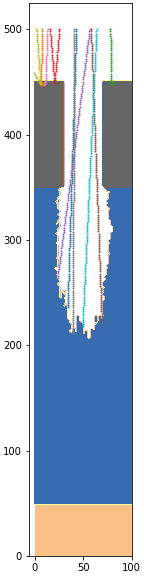
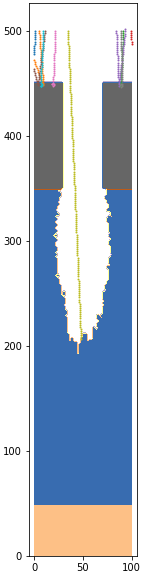
Change init_vels() to init_uvec()
1. replace initi_vels() to init_uvec(), separate speed/energy from direction/uvec
2. replace self.vels with self.enrg, vels = f(enrg)*uvec

diff --git a/FeatMod2d_ptcl.py b/FeatMod2d_ptcl.py
@@ -15,7 +15,7 @@ class PARTICLE(object):
         self.mass = mass # unit in AMU
         self.charge = charge # unit in Unit Charge of Electron
         self.posn = np.zeros(2)
-        self.vels = np.zeros(2)
+        self.enrg = 0.025 # unit in eV, initial as room temperature
         self.uvec = np.zeros(2)
         self.accl = np.zeros(2)
         self.dead = dead # indicator for ptcl alive or dead
@@ -35,7 +35,7 @@ class PARTICLE(object):
         init_posx = np.random.uniform(0.0, 1.0)*width
         self.posn = np.array([init_posx, height])
     
-    def init_vels(self, idstrb='Uniform'):
+    def init_uvec(self, idstrb='Uniform'):
         """
         Initialize the velocity in (x, -z) (half-down quadrant)
         """
@@ -88,7 +88,7 @@ if __name__ == '__main__':
     Arp = PARTICLE('Ar+', 'Ion',  32.0,     1)
     print(Arp)
     Arp.init_posn(width, height)
-    Arp.init_vels()
+    Arp.init_uvec()
     Arp.init_plot()
     
     delta_L = min(res_x, res_z)

diff --git a/FeatMod2d_main.py b/FeatMod2d_main.py
@@ -36,7 +36,7 @@ Arp = PARTICLE('Ar+', 'Ion',  32.0,     1)
 for k in range(num_ptcl):
     Arp.dead = 0
     Arp.init_posn(width, height)
-    Arp.init_vels('Normal')
+    Arp.init_uvec('Normal')
 #    Arp.init_plot()
     record[k].append(Arp.posn.copy())
 
